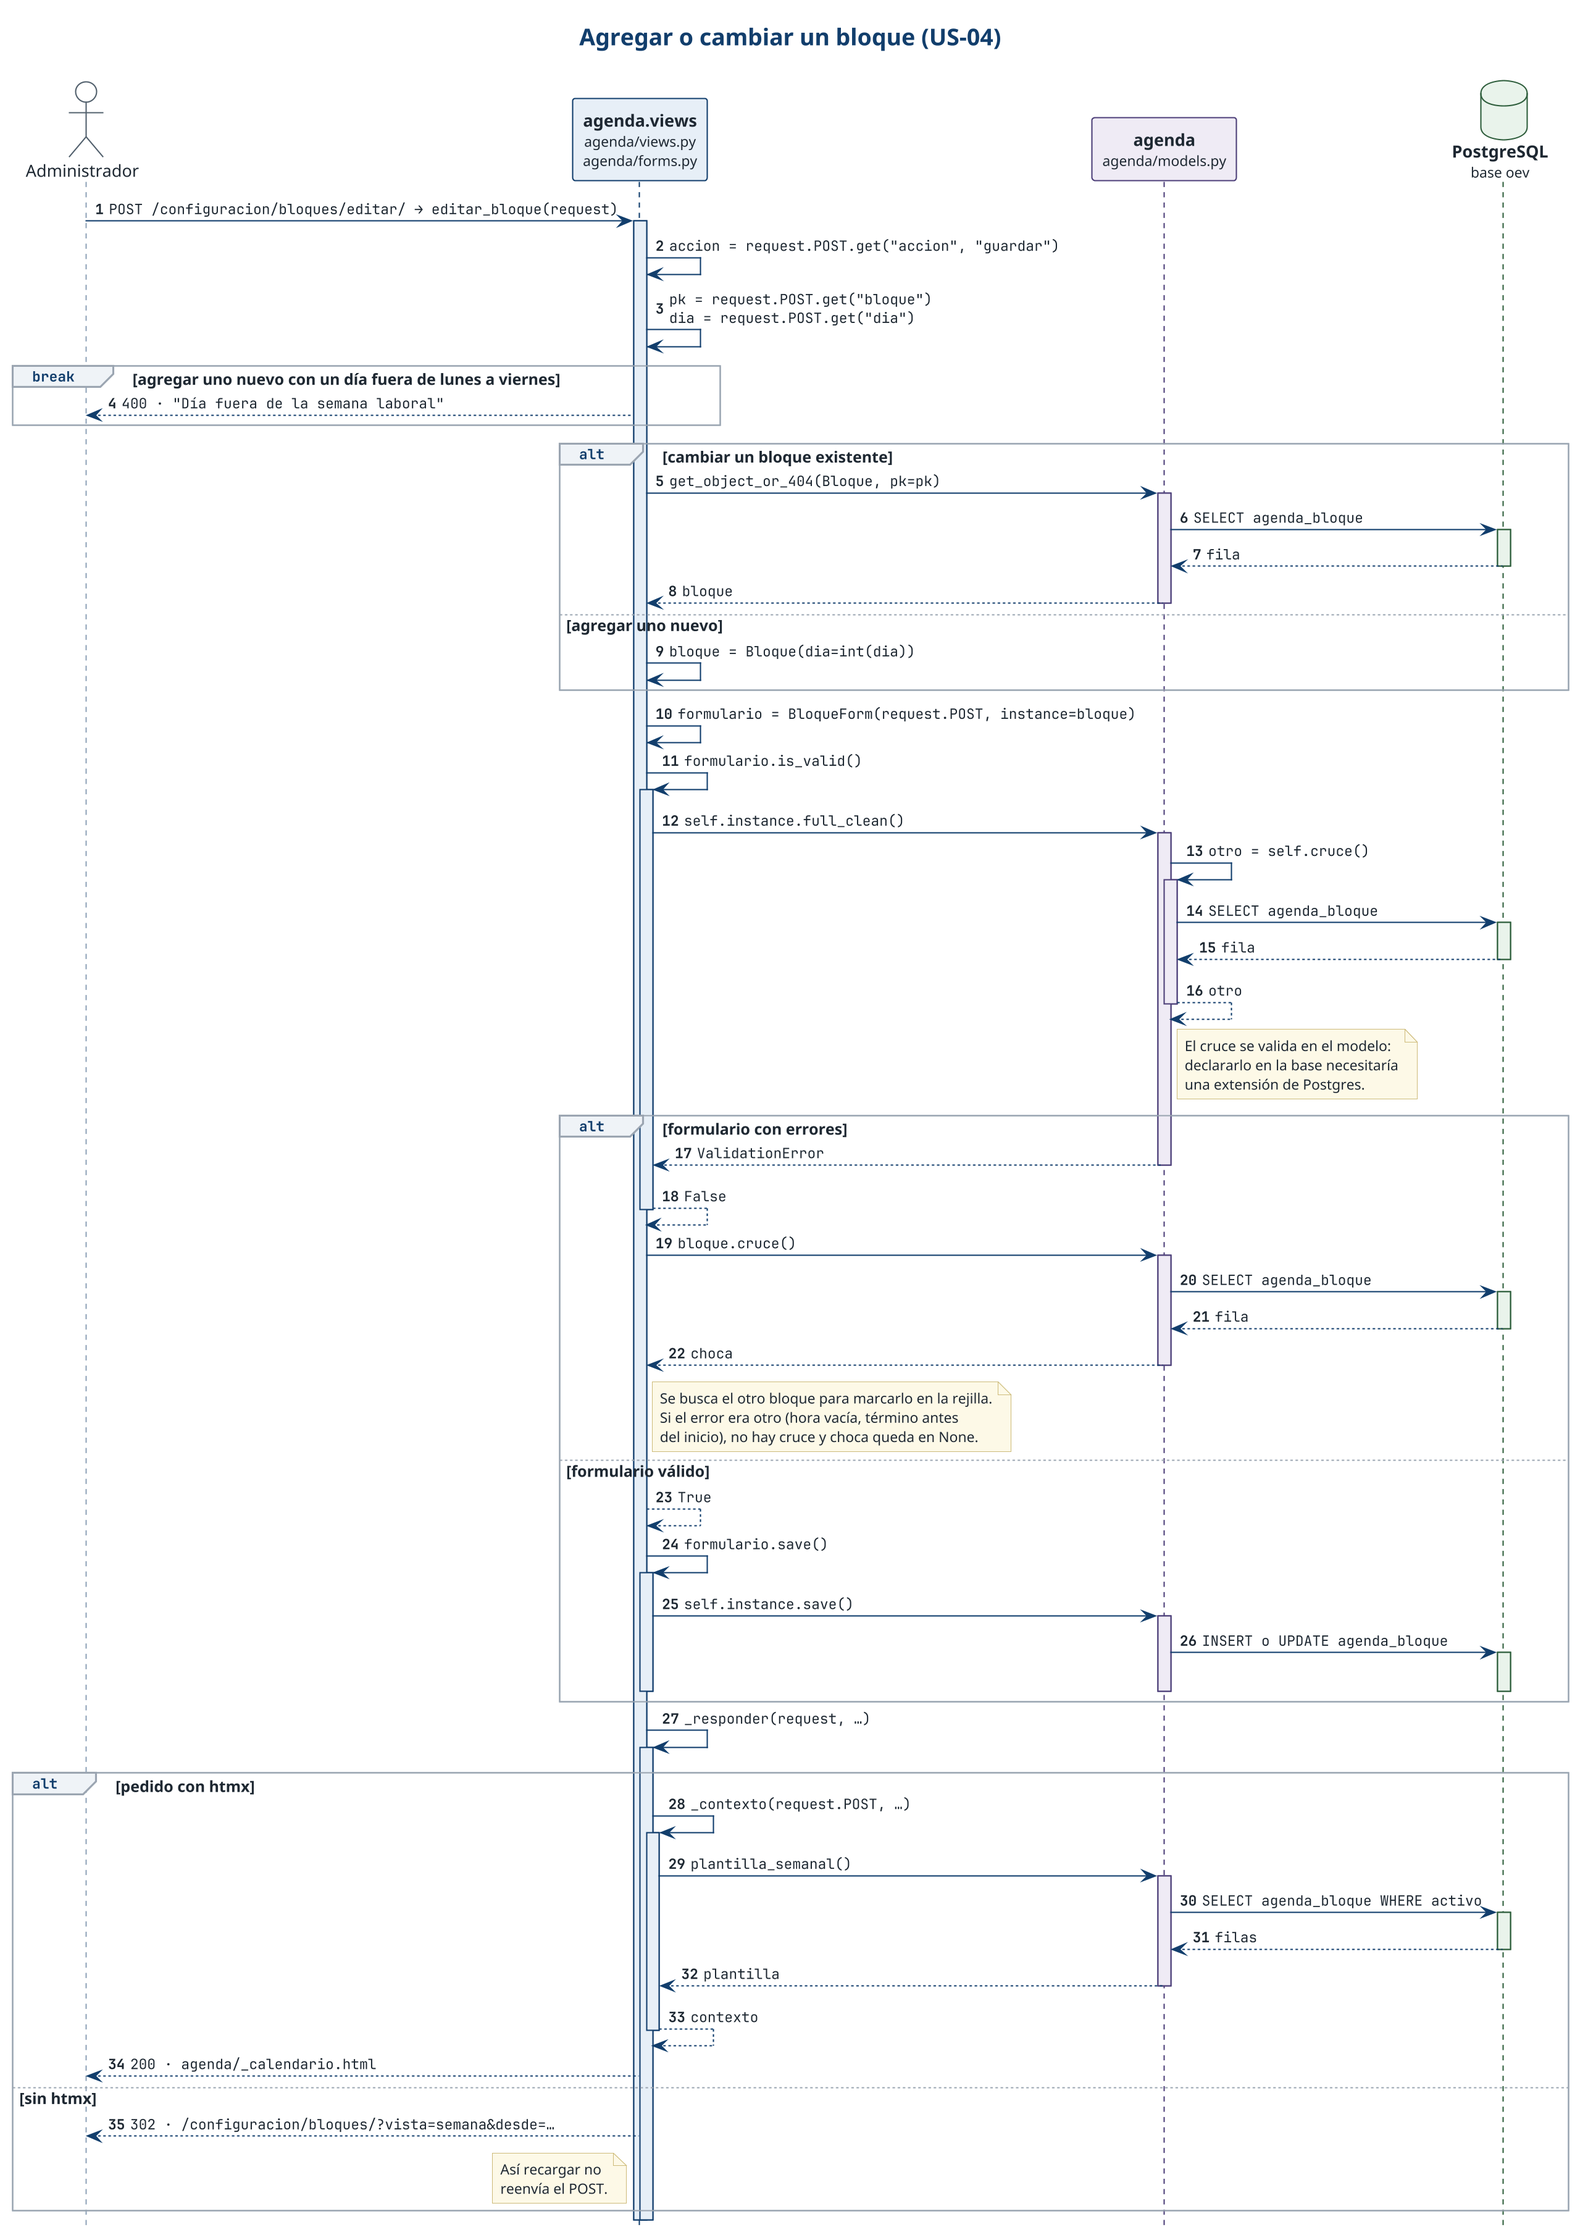
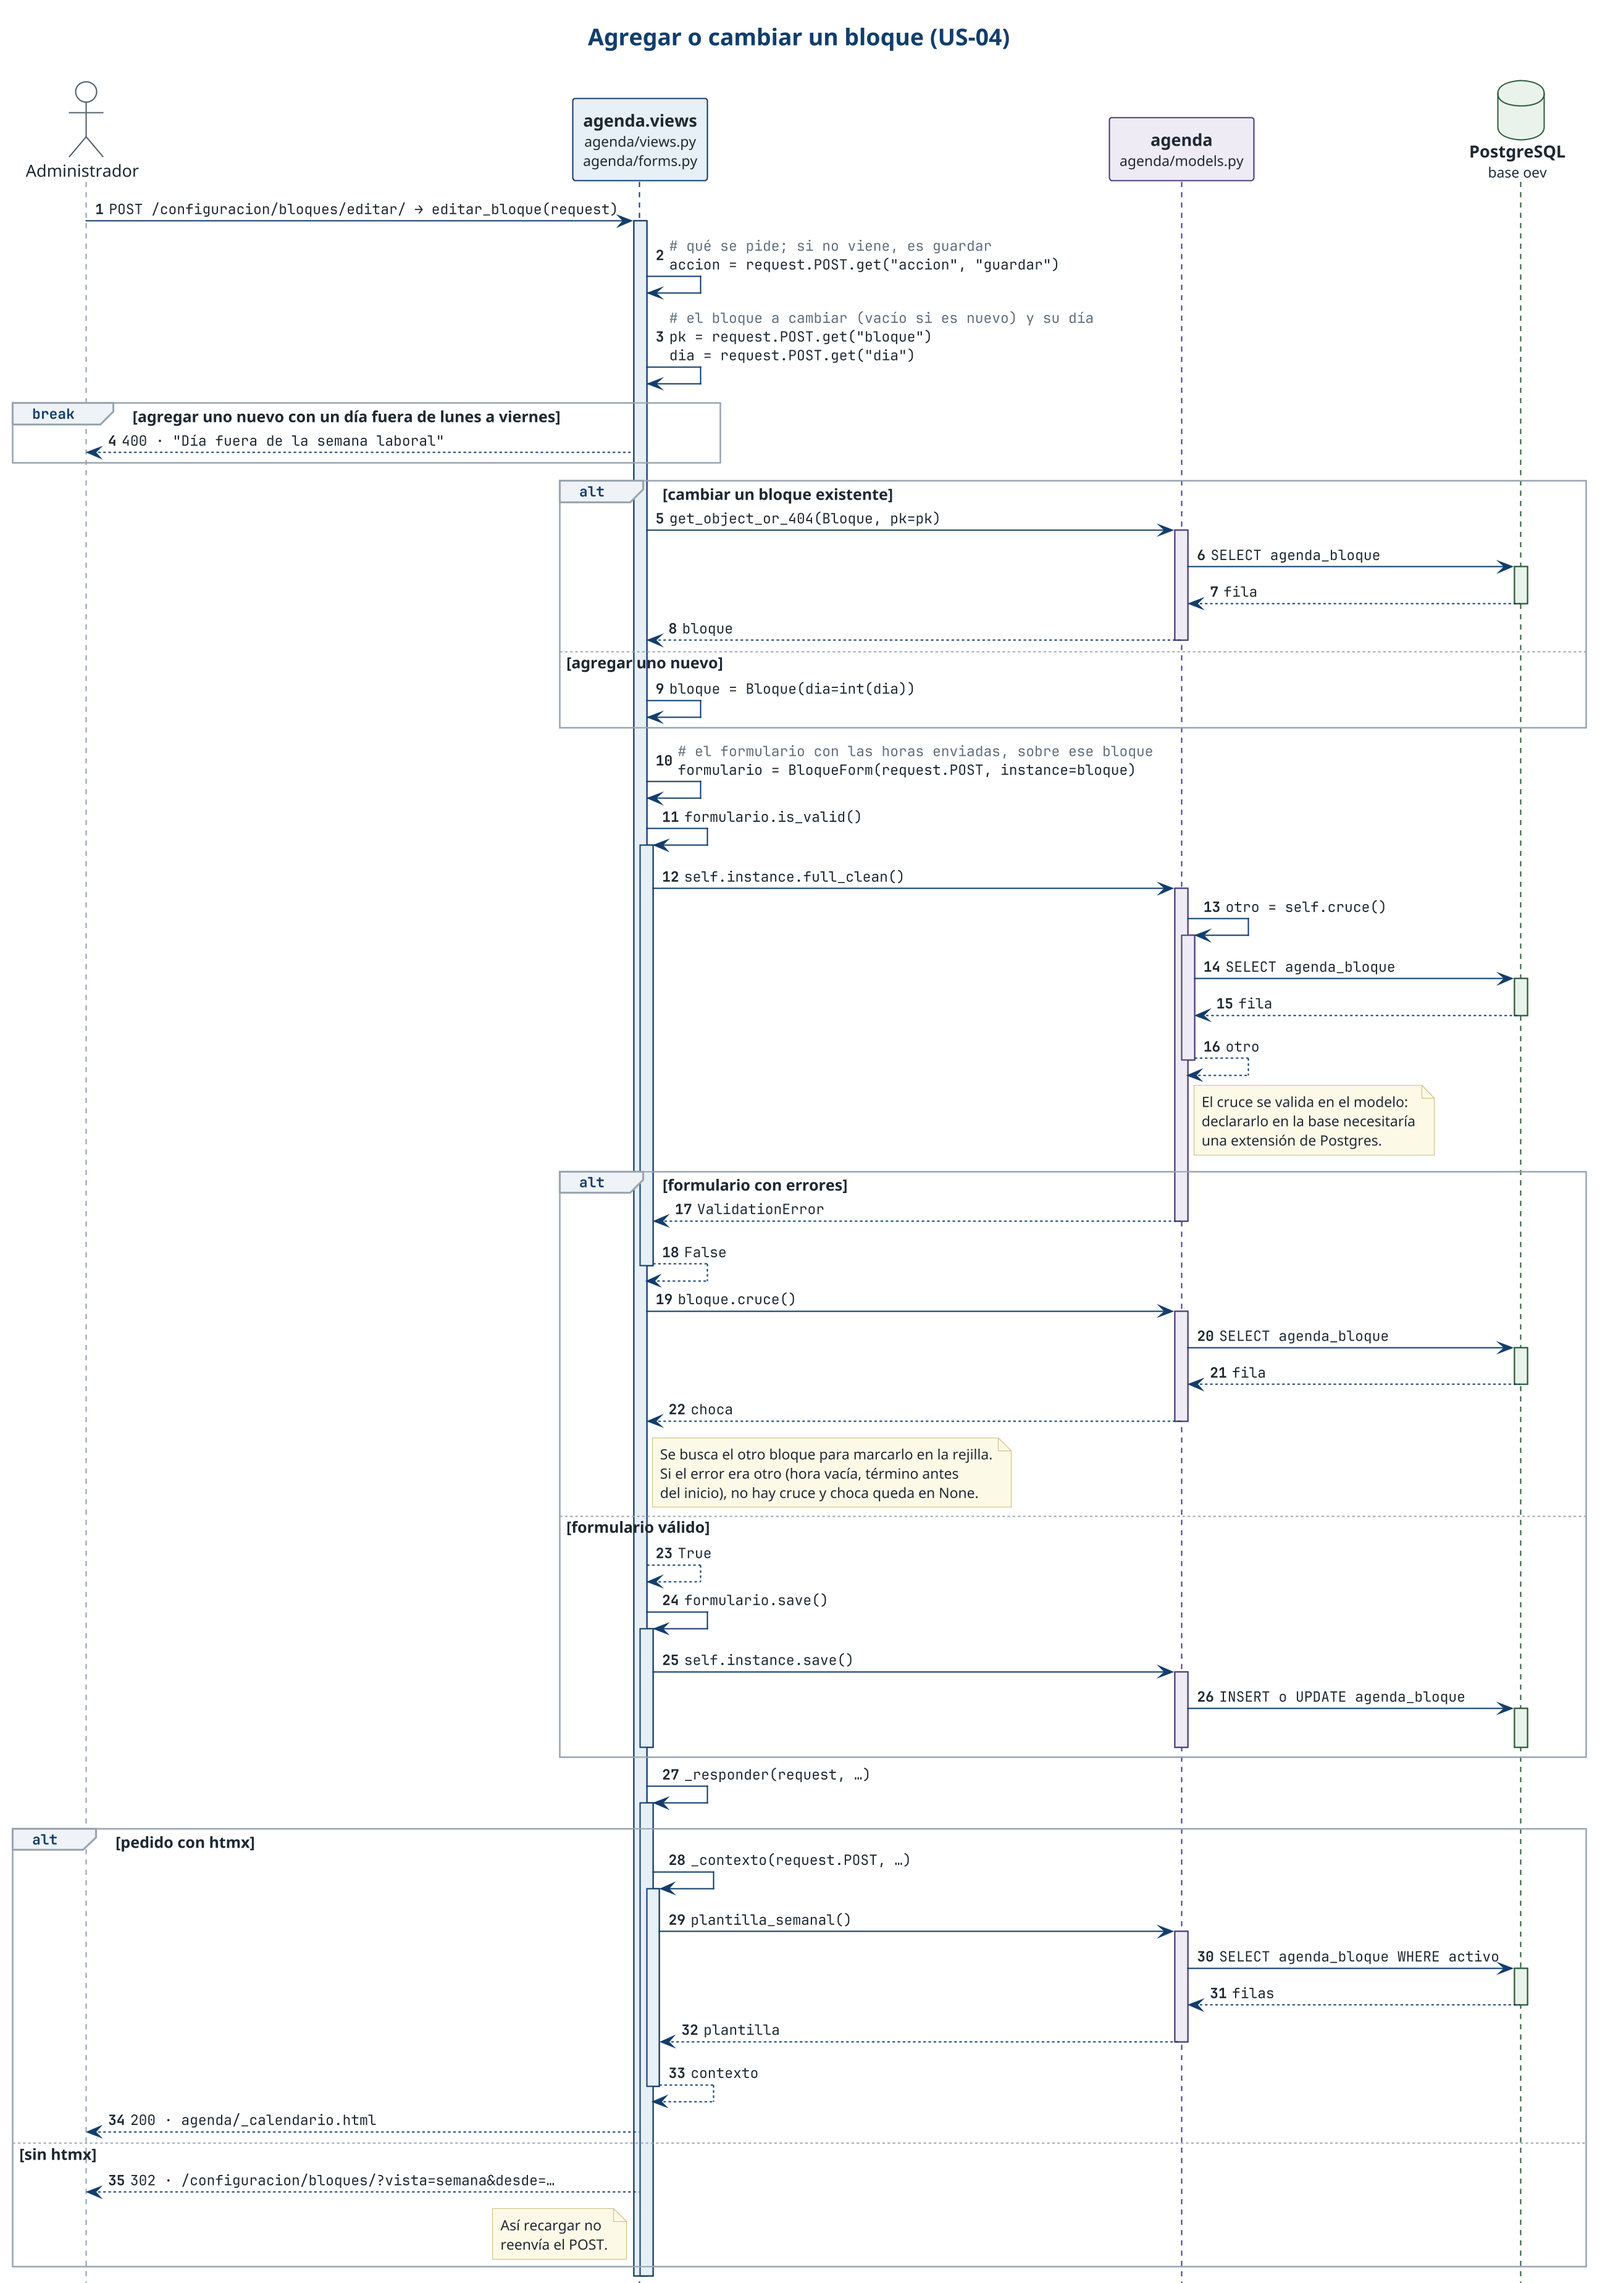
docs: comentarios en palabras y leyenda de los diagramas de secuencia

diff --git a/docs/diagramas.md b/docs/diagramas.md
@@ -2,37 +2,29 @@
 
 ## Comportamiento
 
-Cada línea de vida es una parte del código con el nombre que tiene ahí
-(`<app>.views` en presentación, la app en dominio, la base o los datos de prueba
-en persistencia) y el archivo que la implementa debajo; el color es su capa. Las
-flechas son las llamadas del código, escritas como en la línea donde ocurren:
-entre partes, la función con sus argumentos, abreviados cuando no cambian lo que
-pasa (dentro de un formulario, `self.instance` es el modelo que se le pasó);
-hacia la base, solo la operación SQL y la tabla que toca. Cada llamada abre una
-barra de activación en quien la recibe, también cuando es de la misma parte. El
-retorno lleva el nombre de la variable donde queda lo que vuelve, y lo que
-vuelve de la base se rotula `fila` o `filas` aunque venga vacío: los casos
-alternativos van en la guarda del `alt`, no en la flecha. Cuando lo que vuelve
-decide un `alt`, cada rama lleva su propia vuelta, primero la que corta
-(`False`, o `ValidationError` si una validación falla) y después la que sigue
-(`True`). Lo que no devuelve nada (`save()`, un `UPDATE`) cierra su barra sin
-flecha de vuelta. Una salida anticipada (un `400`, un `404`) va en un `break`.
-La respuesta lleva el código HTTP y la plantilla o la dirección; `render()` y
-`redirect()` no se dibujan aparte. Lo que una parte hace por dentro va como
-mensaje a sí misma con la línea de código, y el porqué, en nota. Las condiciones
-de `alt`, `opt`, `loop` y `break` van en español. El control de acceso por rol
-(`staff_member_required`, `user_passes_test`) corre antes de cada vista y no se
-repite en cada diagrama.
+Hay un diagrama de secuencia por escenario de cada historia. Están dibujados
+desde el código: cada flecha es una llamada que existe en `main`.
 
-Cada escenario es un archivo `docs/diagramas/us-XX/<escenario>.puml`. Parte con
-`@startuml <escenario>`, que le da el nombre al PNG, e incluye `../estilo.iuml`,
-donde están los colores y las fuentes. La capa de cada línea de vida va como
-estereotipo: `<<presentación>>`, `<<dominio>>` o `<<persistencia>>`. Para una
-historia nueva conviene copiar el diagrama más parecido y adaptarlo. Se dibuja
-con `plantuml -tpng docs/diagramas/us-XX/*.puml` y se suben el `.puml` y el
-`.png`, con el PNG enlazado acá en una sección de su historia. Las fuentes son
-Noto Sans y JetBrainsMono NF; sin ellas PlantUML usa otras y el diagrama sale
-igual, con otra letra.
+### Cómo leerlos
+
+| Elemento | Qué representa |
+|---|---|
+| Participante | Una parte del código con el nombre que tiene ahí (`personas.views`, `agenda`, la base) y, debajo, el archivo que la implementa. |
+| Color | La capa: azul es presentación, morado es dominio y verde es persistencia. |
+| Flecha | Una llamada, escrita como en su línea de código. Hacia la base, solo la operación SQL y la tabla. |
+| Flecha a sí mismo | Una línea de código que esa parte ejecuta por dentro. |
+| Comentario (`#`, en gris) | Lo que hace la línea de código de abajo, en palabras. Va en las más largas. |
+| Barra de activación | La llamada en curso. Toda llamada abre una, también las internas. |
+| Retorno (punteado) | La variable donde queda el resultado. Lo que vuelve de la base es `fila` o `filas`. Lo que no devuelve nada, como `save()`, no tiene retorno. |
+| Respuesta al actor | El código HTTP y la plantilla o la dirección, como `200 · uso/bloques.html`. |
+| `alt`, `opt`, `loop` | Ramas, pasos opcionales y repeticiones, con la condición entre corchetes. Si un retorno decide la rama, cada rama lleva el suyo. |
+| `break` | Una salida anticipada, como un `400` o un `404`. |
+| Nota | Por qué el código hace ese paso. |
+
+Los argumentos se acortan cuando no cambian lo que pasa, y dentro de un
+formulario `self.instance` es el modelo que se le pasó. El control de acceso por
+rol (`staff_member_required`, `user_passes_test`) corre antes de cada vista y no
+se dibuja.
 
 ### Inicio de sesión (US-01)
 
